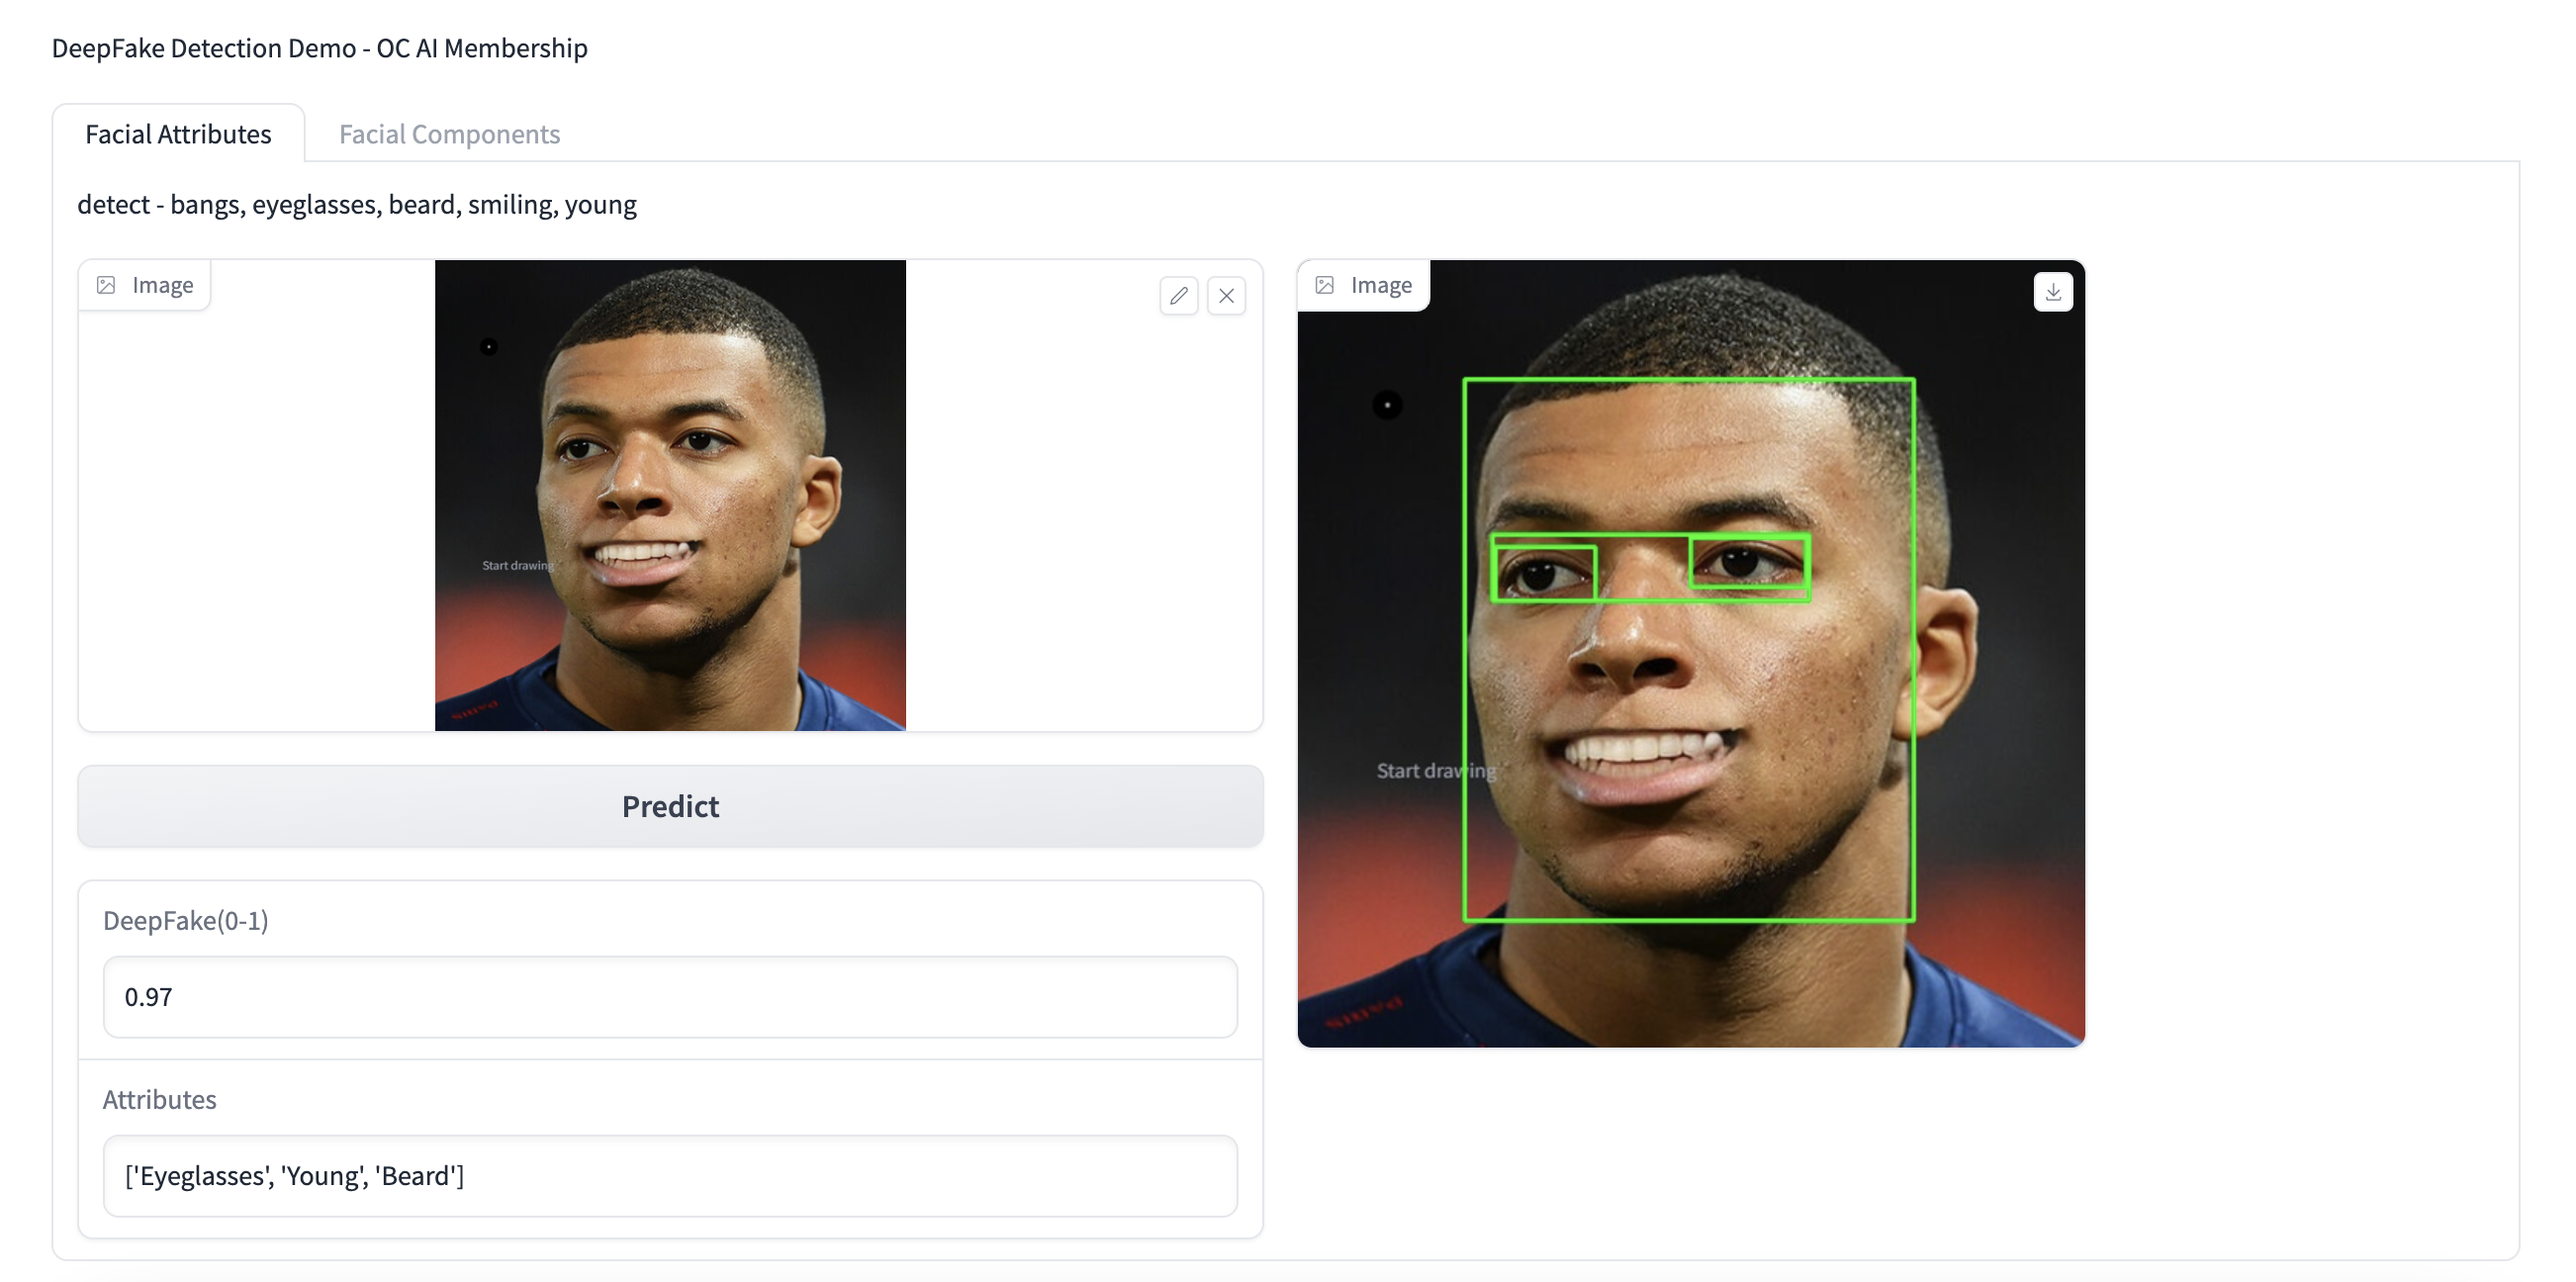
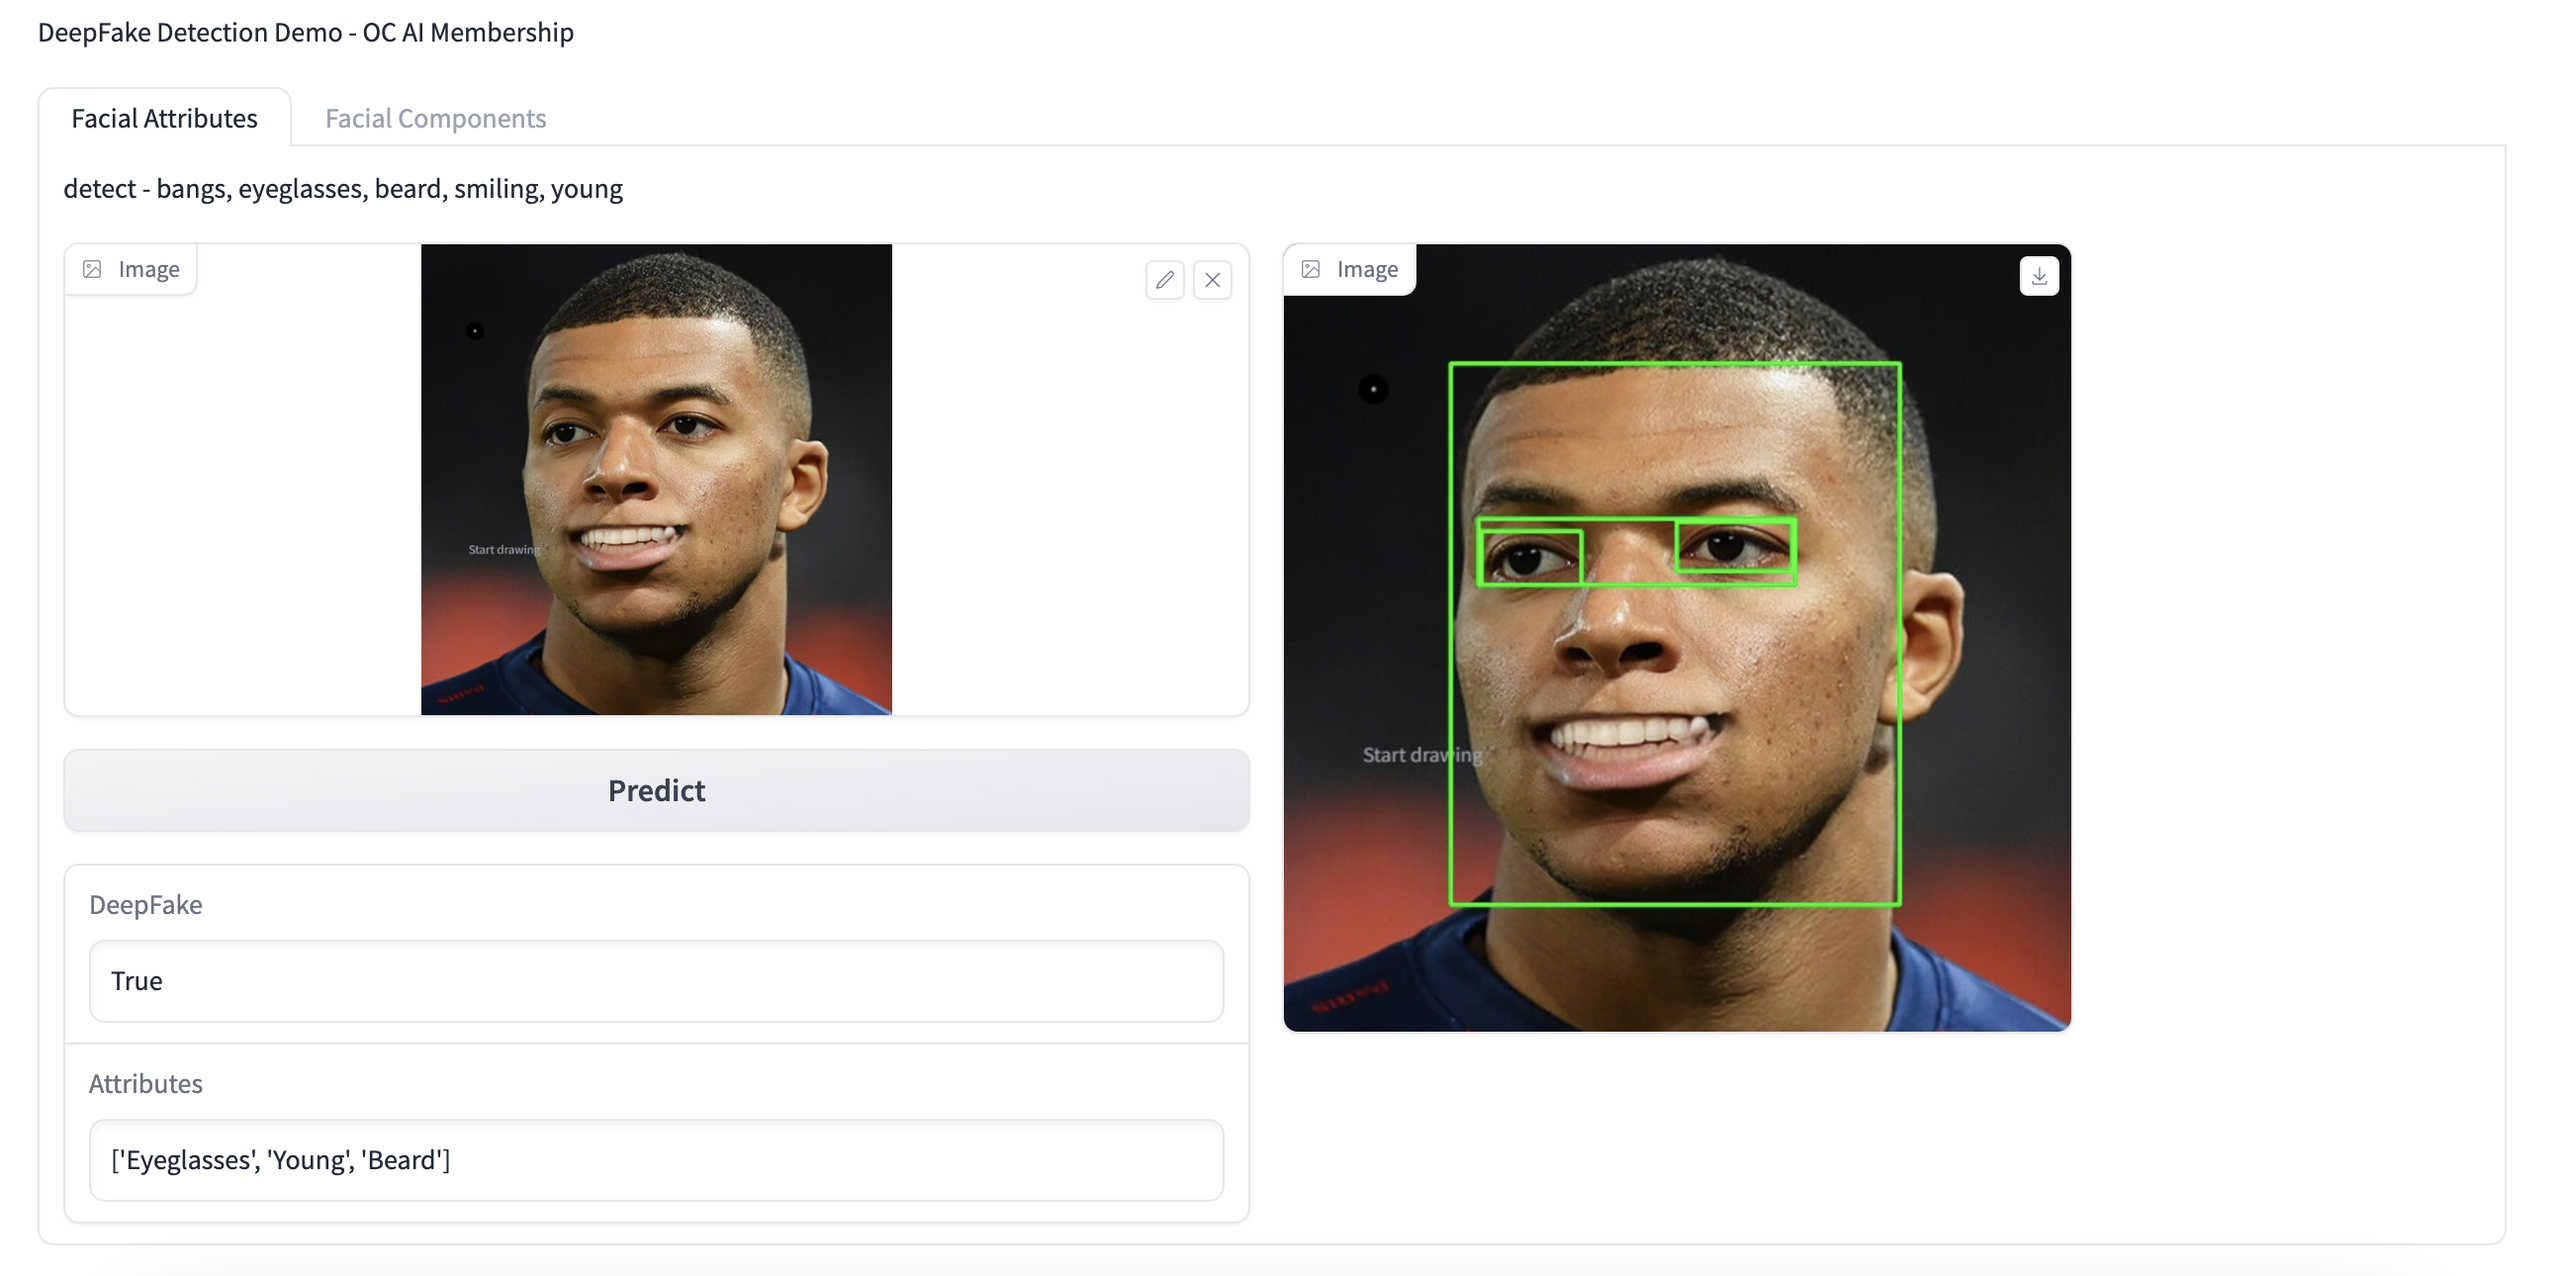
edit readme and deepfake result

diff --git a/app.py b/app.py
@@ -31,7 +31,7 @@ with gr.Blocks() as demo:
             with gr.Column(scale=1, min_width=600):
                 image_path = gr.Image(type='filepath', value='./.asset/attribute.png')
                 btn = gr.Button(value='Predict')
-                result1_output = gr.Textbox(label='DeepFake(0-1)')
+                result1_output = gr.Textbox(label='DeepFake')
                 result2_output = gr.Textbox(label='Attributes')
             with gr.Column(scale=2, min_width=400):
                 result3_output = gr.Image(type='filepath', width=400)
@@ -44,12 +44,12 @@ with gr.Blocks() as demo:
                 if trufor_results[0] > threshold:
                     # SeqDeepFake
                     seq_results = attribute_make_result(image_path)
-                    result1_output = trufor_results[0]
+                    result1_output = True
                     result2_output = seq_results[1]
                     result3_output = seq_results[2]
 
                 else:
-                    result1_output = trufor_results[0]
+                    result1_output = False
                     result2_output = None
                     result3_output = None
 
@@ -64,7 +64,7 @@ with gr.Blocks() as demo:
             with gr.Column(scale=1, min_width=600):
                 image_path = gr.Image(type='filepath', value='./.asset/component.png')
                 btn = gr.Button(value='Predict')
-                result1_output = gr.Textbox(label='DeepFake(0-1)')
+                result1_output = gr.Textbox(label='DeepFake')
                 result2_output = gr.Textbox(label='Components')
             with gr.Column(scale=2, min_width=400):
                 result3_output = gr.Image(type='filepath', width=400)
@@ -77,12 +77,12 @@ with gr.Blocks() as demo:
                 if trufor_results[0] > threshold:
                     # SeqDeepFake
                     seq_results = component_make_result(image_path)
-                    result1_output = trufor_results[0]
+                    result1_output = True
                     result2_output = seq_results[1]
                     result3_output = seq_results[2]
 
                 else:
-                    result1_output = trufor_results[0]
+                    result1_output = False
                     result2_output = None
                     result3_output = None
 

diff --git a/README.md b/README.md
@@ -10,8 +10,9 @@ Antitifake is an open source deepfake detection tool for consolidated methods.
 
 ### 📦 Antitifake aims to provide the following :   
 #### Detect
-Determine whether an input image is deepfake(0 to 1) then extract manipulated parts if the resulting value is higher than threshold(0.5).
+predict input image is deepfake, then return True and extract manipulated parts with image if the resulting value is higher than threshold(0.5).
 
+#### true
 - Facial Attributes: bangs, eyeglasses, beard, smiling, young
   
   ![attributes](./.asset/attribute_result.png)
@@ -19,6 +20,10 @@ Determine whether an input image is deepfake(0 to 1) then extract manipulated pa
 - Facial Components: nose, eye, eyebrow, lip, hair
   
   ![components](./.asset/component_result.png)
+
+#### False
+
+  ![false](./.asset/false_result.png)
 
 ### Setting
 #### 1. set trained model files(.pt)
